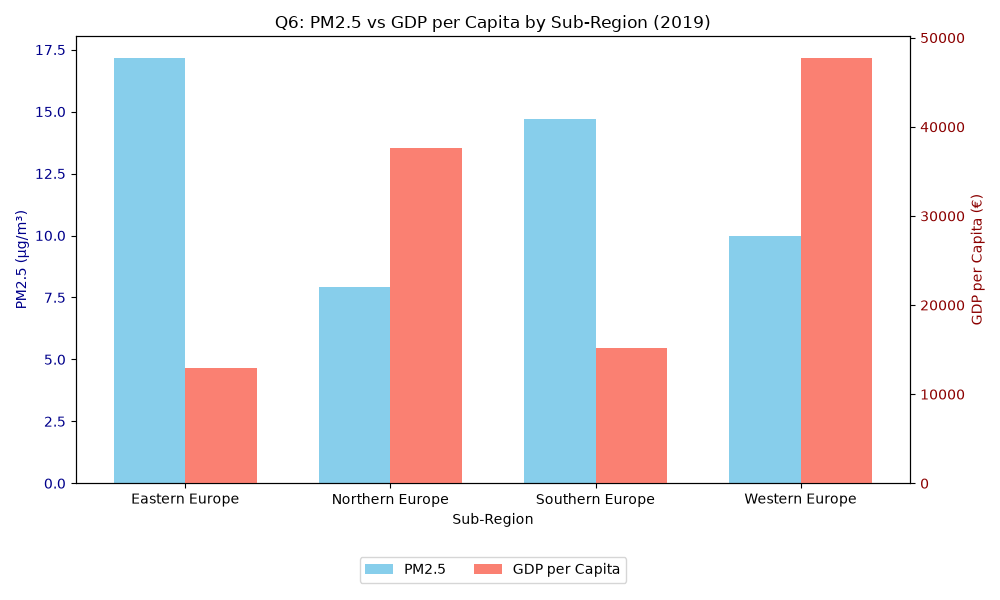
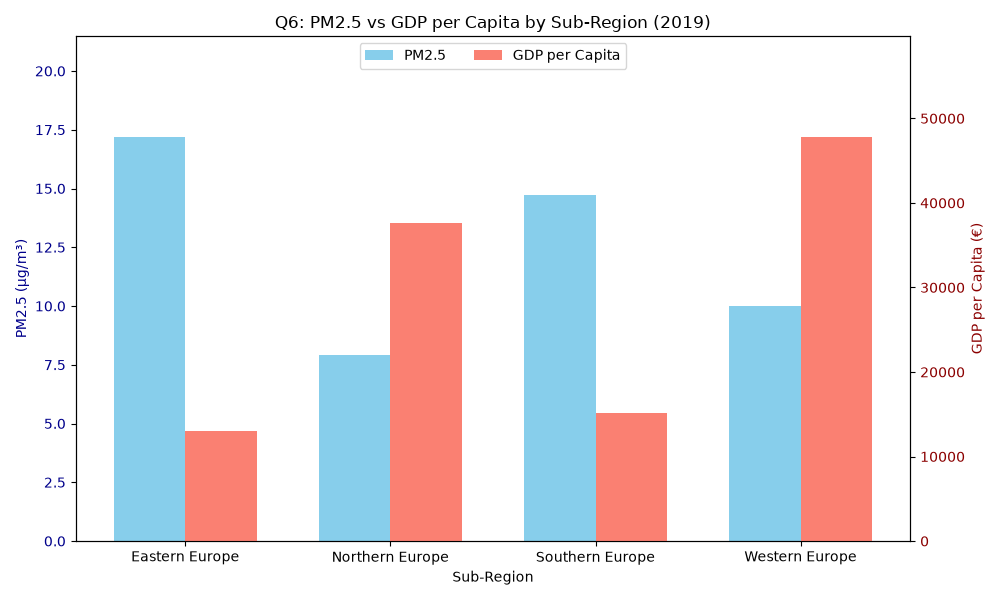
Fix slide

diff --git a/src/generate_charts.py b/src/generate_charts.py
@@ -104,10 +104,14 @@ def plot_q6_drill_across(conn, output_dir):
     
     plt.title('Q6: PM2.5 vs GDP per Capita by Sub-Region (2019)')
     
-    # Combined legend
+    # Combined legend inside the plot
     lines_1, labels_1 = ax1.get_legend_handles_labels()
     lines_2, labels_2 = ax2.get_legend_handles_labels()
-    ax1.legend(lines_1 + lines_2, labels_1 + labels_2, loc='upper center', bbox_to_anchor=(0.5, -0.15), ncol=2)
+    ax1.legend(lines_1 + lines_2, labels_1 + labels_2, loc='upper center', ncol=2)
+    
+    # Ensure there is enough space at the top for the legend
+    ax1.set_ylim(0, df_2019['pm25'].max() * 1.25)
+    ax2.set_ylim(0, df_2019['gdp_per_capita'].max() * 1.25)
     
     plt.tight_layout()
     plt.savefig(os.path.join(output_dir, 'q6_drill_across.png'))
